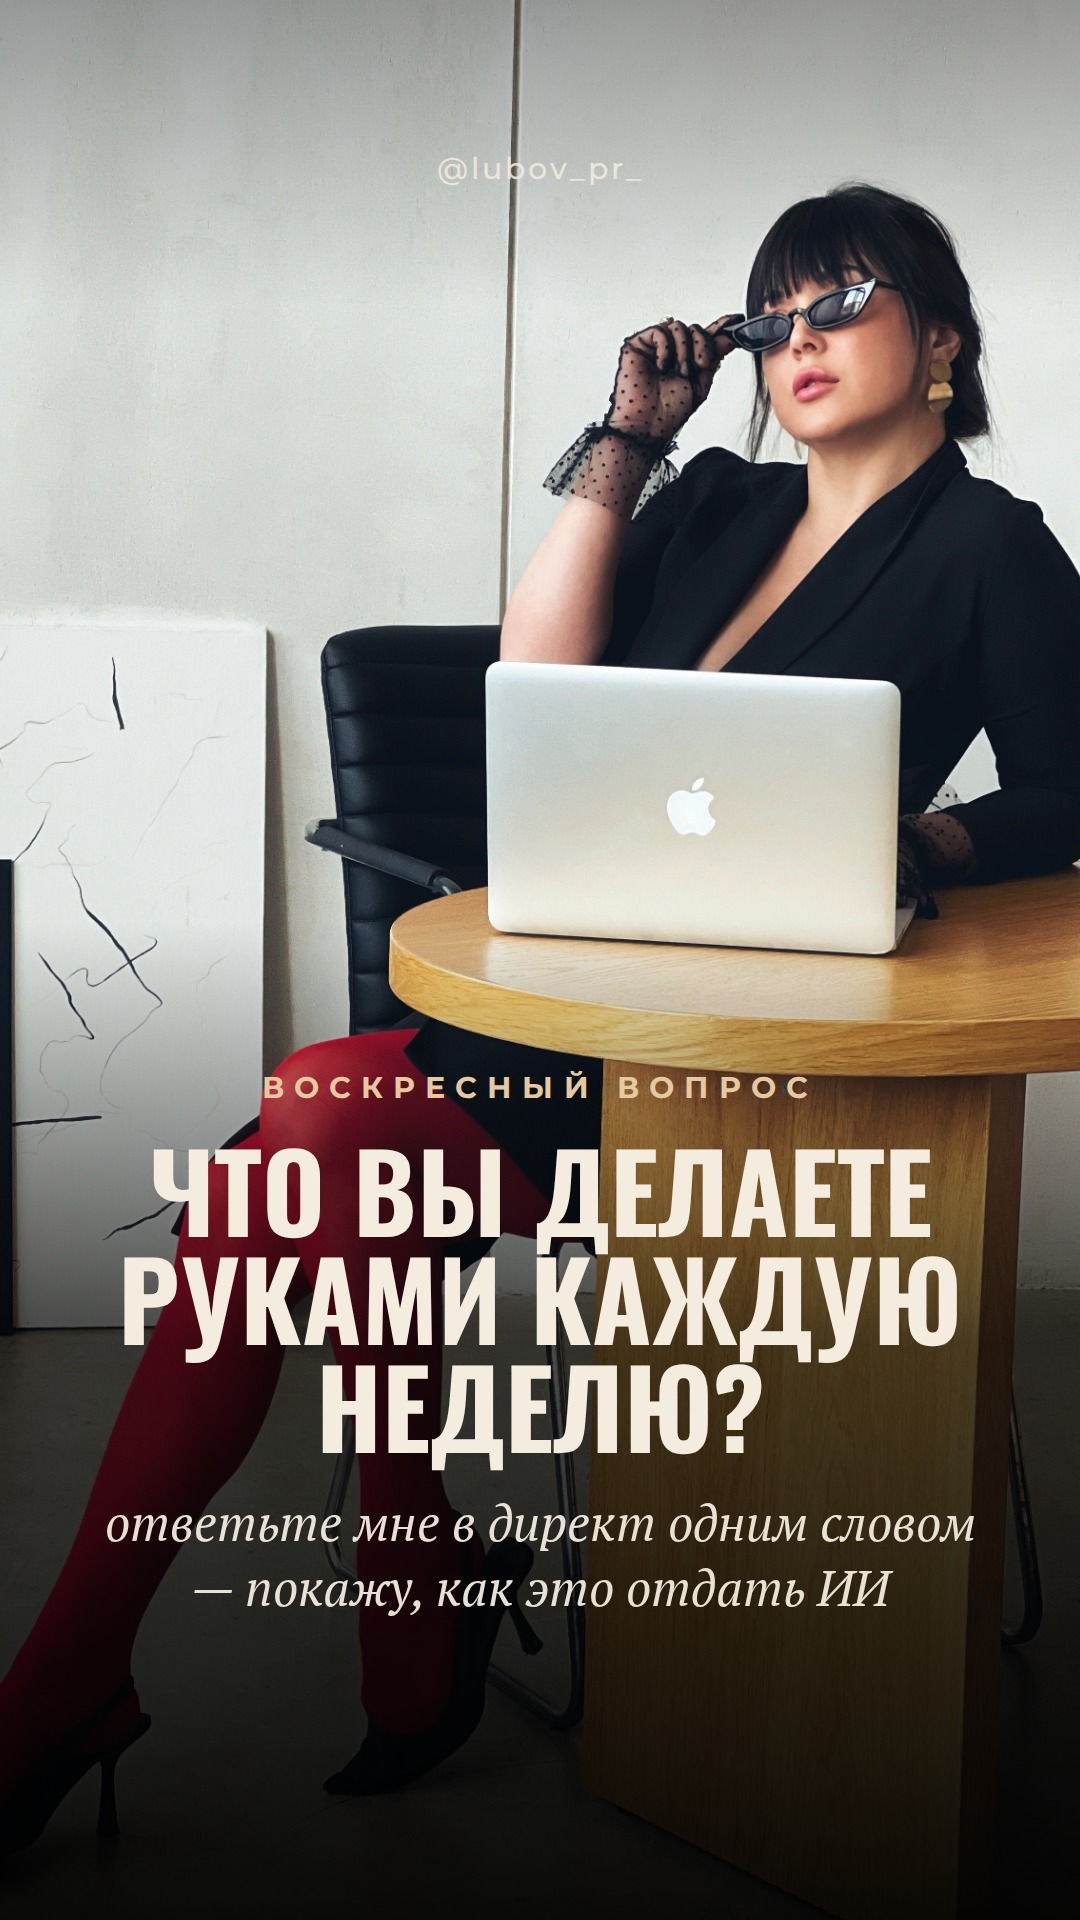
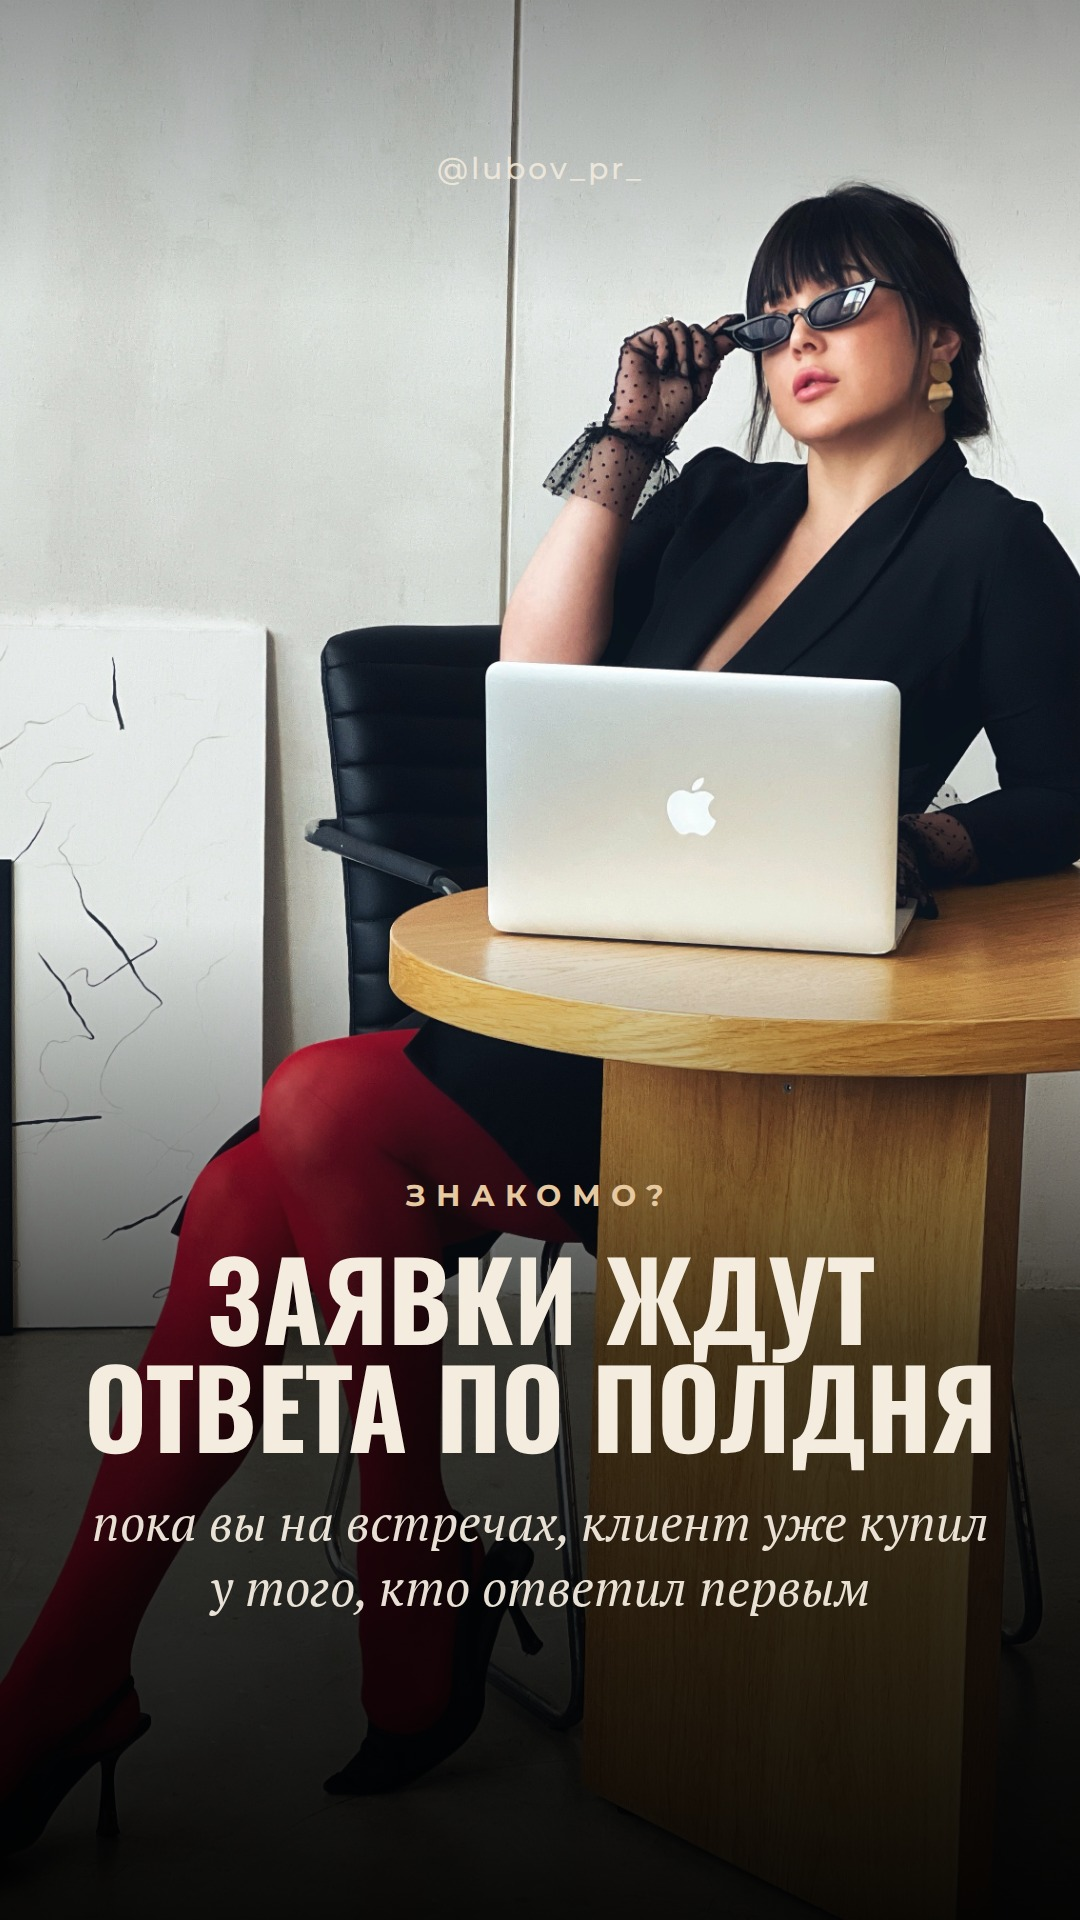
4.10: сторис и пост через боли клиентов

Changed region(s): [[0.0611, 0.5625, 0.9167, 0.8438]]

diff --git a/content/stories_2026-10-04.py b/content/stories_2026-10-04.py
@@ -1,5 +1,5 @@
 DAYS = [{'date': '2026-10-04', 'prefix': 'story', 'pill': 'НАПИШИТЕ «ДИАГНОСТИКА»', 'stories': [
-  {'photo': ('lubov2_laptop_red.jpg', '60% top'), 'text': ('воскресный вопрос', 'Что вы делаете руками каждую неделю?', 'ответьте мне в директ одним словом — покажу, как это отдать ИИ')},
-  {'photo': ('lubov2_shelf_book.jpg', '45% top'), 'text': ('ИИ забирает уже сейчас', 'Заявки. Контент. Отчёты.', 'три задачи, которые у моих клиентов больше не съедают выходные')},
-  {'photo': ('lubov2_portrait_blazer.jpg', '45% top'), 'text': ('это не курс', 'Бесплатная диагностика ИИ — 15 минут', 'внедряю под вас лично или в малой группе, без кодов и промптов'), 'pill': True},
+  {'photo': ('lubov2_laptop_red.jpg', '60% top'), 'text': ('знакомо?', 'Заявки ждут ответа по полдня', 'пока вы на встречах, клиент уже купил у того, кто ответил первым')},
+  {'photo': ('lubov2_shelf_book.jpg', '45% top'), 'text': ('знакомо?', 'Контент — ночью и в выходные', 'а в будни «некогда», и аккаунт стоит неделями')},
+  {'photo': ('lubov2_portrait_blazer.jpg', '45% top'), 'text': ('это не курс', 'Хотите ИИ, но некогда разбираться?', 'внедряю за вас, лично или в малой группе. Бесплатная диагностика\u00a0—\u00a015\u00a0минут'), 'pill': True},
 ]}]
